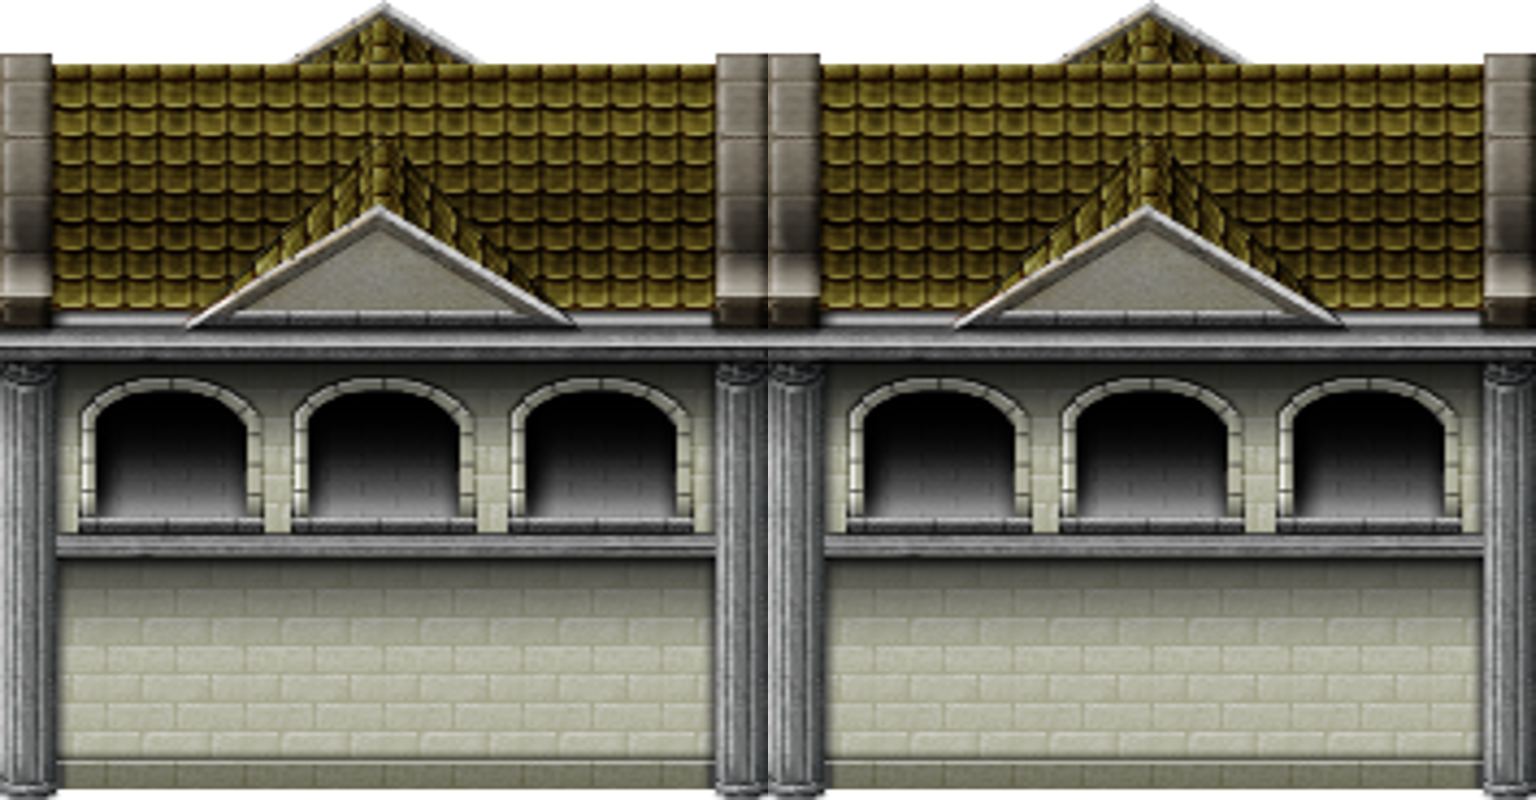
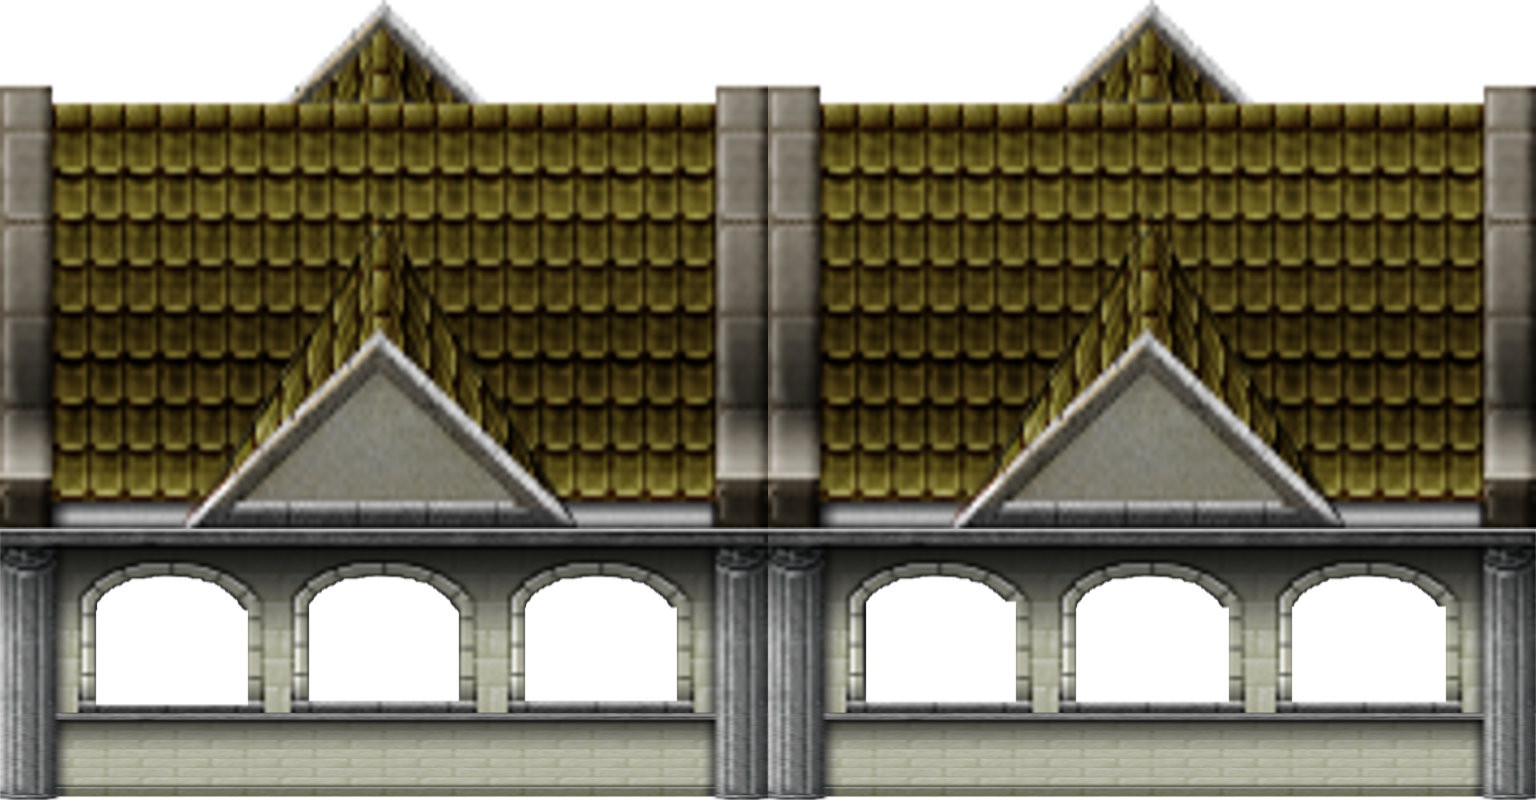
windows

diff --git a/tactics_project/src/com/marklynch/editor/Editor.java b/tactics_project/src/com/marklynch/editor/Editor.java
@@ -425,9 +425,8 @@ public class Editor {
 		ArrayList<CaveSection> shopSections = new ArrayList<CaveSection>();
 		shopSections.add(new CaveSection("Super Wolf's Den", 5, 0, 17, 5));
 		Cave joesShop = new Cave("Trader Joe's Shop", shopSections, shopAtriums, new ArrayList<CavePath>(),
-				shopFeatures, entranceSquares, "building.png");
+				shopFeatures, entranceSquares, "building2.png", 640, 640 + 1664, -32, -32 + 800);
 		Game.level.structures.add(joesShop);
-
 		// Hunting lodge
 		ArrayList<GameObject> lodgeFeatures = new ArrayList<GameObject>();
 		ArrayList<Room> lodgeAtriums = new ArrayList<Room>();
@@ -435,7 +434,7 @@ public class Editor {
 		ArrayList<CaveSection> lodgeSections = new ArrayList<CaveSection>();
 		lodgeSections.add(new CaveSection("Super Wolf's Den", 7, 7, 11, 11));
 		Cave lodge = new Cave("Hunting Lodge", lodgeSections, lodgeAtriums, new ArrayList<CavePath>(), lodgeFeatures,
-				new ArrayList<Square>(), null);
+				new ArrayList<Square>(), "building.png", 896, 896 + 640, 896, 896 + 640);
 		Game.level.structures.add(lodge);
 
 		// ArrayList<Square> doorLocations2 = new ArrayList<Square>();
@@ -459,7 +458,7 @@ public class Editor {
 		caveSections.add(new CaveSection("Super Wolf's Den", 24, 12, 40, 19));
 		caveSections.add(new CaveSection("Super Wolf's Den", 41, 5, 49, 16));
 		Game.level.structures.add(new Cave("Super Wolf's Cave", caveSections, caveAtriums, cavePaths, caveFeatures,
-				new ArrayList<Square>(), null));
+				new ArrayList<Square>(), null, 0, 0, 0, 0));
 
 		// 6,1 to 8,4
 		// for(int i = 6; i<=8; )

diff --git a/tactics_project/src/com/marklynch/level/constructs/cave/Cave.java b/tactics_project/src/com/marklynch/level/constructs/cave/Cave.java
@@ -18,15 +18,21 @@ public class Cave extends Structure {
 	ArrayList<CaveSection> caveSections;
 	ArrayList<Square> entranceSquares;
 	Texture imageTexture;
+	float overlayX1, overlayX2, overlayY1, overlayY2;
 
 	public Cave(String name, ArrayList<CaveSection> caveSections, ArrayList<Room> rooms, ArrayList<CavePath> paths,
-			ArrayList<GameObject> features, ArrayList<Square> entrances, String imageTexturePath) {
+			ArrayList<GameObject> features, ArrayList<Square> entrances, String imageTexturePath, float overlayX1,
+			float overlayX2, float overlayY1, float overlayY2) {
 		super();
 
 		this.name = name;
 		this.caveSections = caveSections;
 		this.rooms = rooms;
 		this.imageTexture = ResourceUtils.getGlobalImage(imageTexturePath);
+		this.overlayX1 = overlayX1;
+		this.overlayY1 = overlayY1;
+		this.overlayX2 = overlayX2;
+		this.overlayY2 = overlayY2;
 		this.entranceSquares = entrances;
 		ArrayList<Square> floorSquares = new ArrayList<Square>();
 		ArrayList<Square> wallSquares = new ArrayList<Square>();
@@ -162,7 +168,8 @@ public class Cave extends Structure {
 				if (roofAlpha > 1f)
 					roofAlpha = 1f;
 			}
-			TextureUtils.drawTexture(imageTexture, roofAlpha, 640, 640 + 1664, -32, -32 + 800);
+			TextureUtils.drawTexture(imageTexture, roofAlpha, this.overlayX1, this.overlayX2, this.overlayY1,
+					this.overlayY2);
 		}
 
 	}

diff --git a/tactics_project/src/com/marklynch/notes/TODO.java b/tactics_project/src/com/marklynch/notes/TODO.java
@@ -2,6 +2,13 @@ package com.marklynch.notes;
 
 public class TODO {
 
+	// Do sight and windows i think
+
+	// Maybe put in logic so that guards/shop keepers etc wont stand beside
+	// fecking doors (the more static AIs).
+
+	// Trader is writing sign twice :P
+
 	// Have a global random generator, replace calls to Math.random();
 
 	// Make sure to do Garbage Collection after (i.e. as part of, but at the
